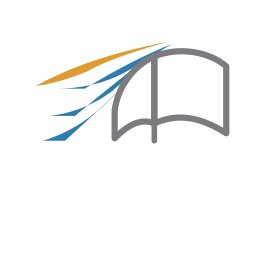
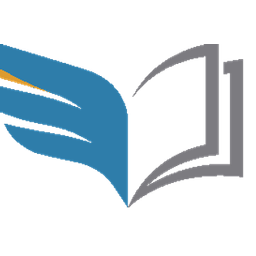
fix(brand): use official Option A lockup PNGs and migrate settings
Replace approximate SVG marks with transparent logos cropped from the
guidelines, migrate persisted SVG branding paths to PNG, enlarge the
header lockup, and apply Horizon Blue / Sun Gold CSS vars at runtime.

Changed region(s): [[0.0, 0.1562, 0.9688, 0.8125]]

diff --git a/components/brand/brand-logo.tsx b/components/brand/brand-logo.tsx
@@ -6,6 +6,7 @@ import { siteStatic } from "@/config/site-static";
 import { cn } from "@/lib/utils";
 import { routes } from "@/constants/routes";
 import { safeHref } from "@/lib/links/safe-href";
+import { useBrand } from "@/providers/brand-provider";
 
 interface BrandLogoProps {
   className?: string;
@@ -17,9 +18,8 @@ interface BrandLogoProps {
 }
 
 /**
- * Static brand mark — no BrandProvider/useBrand on the critical layout path.
- * Runtime brand API still powers other surfaces via BrandProvider.
- * Lockups follow official guidelines: horizontal (full/dark) and stacked.
+ * Option A lockup (Horizon Blue & Sun Gold).
+ * Prefers runtime branding settings when available; falls back to siteStatic PNGs.
  */
 function BrandLogo({
   className,
@@ -28,15 +28,17 @@ function BrandLogo({
   priority = false,
   showWordmark = false,
 }: BrandLogoProps) {
-  const name = siteStatic.name;
+  const brand = useBrand();
+  const name = brand.platformName || siteStatic.name;
+
   const src =
     variant === "mark"
       ? siteStatic.brand.icon
       : variant === "dark"
-        ? siteStatic.brand.logoDark
+        ? brand.darkLogoUrl || siteStatic.brand.logoDark
         : variant === "stacked"
           ? siteStatic.brand.logoStacked
-          : siteStatic.brand.logo;
+          : brand.logoUrl || siteStatic.brand.logo;
 
   // Explicit null/"" = mark only. Omitted/`undefined` defaults to home silently
   // (JS default params do NOT apply when the caller passes `href={undefined}`).
@@ -54,14 +56,14 @@ function BrandLogo({
       <img
         src={src}
         alt={name}
-        width={variant === "mark" ? 40 : variant === "stacked" ? 140 : 240}
-        height={variant === "mark" ? 40 : variant === "stacked" ? 130 : 52}
+        width={variant === "mark" ? 44 : variant === "stacked" ? 160 : 280}
+        height={variant === "mark" ? 44 : variant === "stacked" ? 150 : 56}
         className={cn(
-          "h-10 w-auto object-contain",
-          variant === "mark" && "h-10 w-10",
-          variant === "full" && "h-9 w-auto max-w-[240px] sm:h-10",
-          variant === "dark" && "h-9 w-auto max-w-[240px] sm:h-10",
-          variant === "stacked" && "h-24 w-auto max-w-[160px]",
+          "h-11 w-auto object-contain object-left",
+          variant === "mark" && "h-11 w-11",
+          variant === "full" && "h-10 w-auto max-w-[280px] sm:h-11",
+          variant === "dark" && "h-10 w-auto max-w-[280px] sm:h-11",
+          variant === "stacked" && "h-28 w-auto max-w-[180px]",
         )}
         decoding="async"
         loading={priority ? "eager" : "lazy"}
@@ -69,7 +71,7 @@ function BrandLogo({
       />
       {showWordmark && variant === "mark" ? (
         <span className="font-display text-lg font-semibold tracking-tight text-primary">
-          {name}
+          <span className="text-primary">AVIATOR</span> <span className="text-accent">PASS</span>
         </span>
       ) : null}
     </span>

diff --git a/services/settings/store.ts b/services/settings/store.ts
@@ -52,12 +52,51 @@ function emptyDb(): SettingsDatabase {
   };
 }
 
+/** Upgrade persisted brand asset paths from legacy SVG masters to Option A PNGs. */
+function migrateBrandingAssets(settings: PlatformSettings): PlatformSettings {
+  const branding = { ...settings.branding };
+  const target = {
+    logoUrl: DEFAULT_PLATFORM_SETTINGS.branding.logoUrl,
+    darkLogoUrl: DEFAULT_PLATFORM_SETTINGS.branding.darkLogoUrl,
+    openGraphImageUrl: DEFAULT_PLATFORM_SETTINGS.branding.openGraphImageUrl,
+  };
+  let changed = false;
+  for (const key of Object.keys(target) as (keyof typeof target)[]) {
+    const current = branding[key];
+    if (
+      !current ||
+      current.endsWith(".svg") ||
+      current === "/brand/logo.png" ||
+      current === "/brand/logo-dark.png" ||
+      current === "/brand/og.png"
+    ) {
+      branding[key] = target[key];
+      changed = true;
+    }
+  }
+  if (!branding.primaryColor || branding.primaryColor.toUpperCase() === "#0B1F33") {
+    branding.primaryColor = DEFAULT_PLATFORM_SETTINGS.branding.primaryColor;
+    changed = true;
+  }
+  if (!branding.accentColor) {
+    branding.accentColor = DEFAULT_PLATFORM_SETTINGS.branding.accentColor;
+    changed = true;
+  }
+  if (!branding.secondaryColor) {
+    branding.secondaryColor = DEFAULT_PLATFORM_SETTINGS.branding.secondaryColor;
+    changed = true;
+  }
+  return changed ? { ...settings, branding } : settings;
+}
+
 function ensureStore(): SettingsDatabase {
   const raw = readJsonFile<Partial<SettingsDatabase>>(DATA_FILE, emptyDb);
-  const settings = deepMerge(
-    DEFAULT_PLATFORM_SETTINGS as unknown as Record<string, unknown>,
-    (raw.settings ?? emptyDb().settings) as unknown as Record<string, unknown>,
-  ) as unknown as PlatformSettings;
+  const settings = migrateBrandingAssets(
+    deepMerge(
+      DEFAULT_PLATFORM_SETTINGS as unknown as Record<string, unknown>,
+      (raw.settings ?? emptyDb().settings) as unknown as Record<string, unknown>,
+    ) as unknown as PlatformSettings,
+  );
   return {
     settings,
     history: raw.history ?? [],

diff --git a/providers/brand-provider.tsx b/providers/brand-provider.tsx
@@ -45,8 +45,22 @@ const FALLBACK: RuntimeBrand = {
 
 const BrandContext = React.createContext<RuntimeBrand>(FALLBACK);
 
+function applyBrandCssVars(brand: RuntimeBrand) {
+  if (typeof document === "undefined") return;
+  const root = document.documentElement;
+  root.style.setProperty("--horizon-blue", brand.primaryColor);
+  root.style.setProperty("--sun-gold", brand.accentColor);
+  root.style.setProperty("--primary", brand.primaryColor);
+  root.style.setProperty("--accent", brand.accentColor);
+  root.style.setProperty("--ring", brand.primaryColor);
+}
+
 export function BrandProvider({ children }: { children: React.ReactNode }) {
   const [brand, setBrand] = React.useState<RuntimeBrand>(FALLBACK);
+
+  React.useEffect(() => {
+    applyBrandCssVars(FALLBACK);
+  }, []);
 
   React.useEffect(() => {
     let cancelled = false;
@@ -59,14 +73,18 @@ export function BrandProvider({ children }: { children: React.ReactNode }) {
         .then((json: { success?: boolean; data?: Partial<RuntimeBrand> }) => {
           if (cancelled || !json.success || !json.data) return;
           const next = { ...FALLBACK, ...json.data };
-          setBrand({
+          const resolved: RuntimeBrand = {
             ...next,
             platformName: next.platformName || FALLBACK.platformName,
             logoUrl: next.logoUrl || FALLBACK.logoUrl,
             darkLogoUrl: next.darkLogoUrl || FALLBACK.darkLogoUrl,
             faviconUrl: next.faviconUrl || FALLBACK.faviconUrl,
             openGraphImageUrl: next.openGraphImageUrl || FALLBACK.openGraphImageUrl,
-          });
+            primaryColor: next.primaryColor || FALLBACK.primaryColor,
+            accentColor: next.accentColor || FALLBACK.accentColor,
+          };
+          setBrand(resolved);
+          applyBrandCssVars(resolved);
         })
         .catch(() => {
           /* keep fallback */

diff --git a/config/site-static.ts b/config/site-static.ts
@@ -25,13 +25,13 @@ export const siteStatic = {
     youtube: "",
   },
   brand: {
-    /** Raster lockups (transparent PNG) — preferred in UI for consistent render */
-    logo: "/brand/logo.png",
-    logoDark: "/brand/logo-dark.png",
-    logoStacked: "/brand/logo-stacked.png",
-    icon: "/brand/icon.png",
-    favicon: "/brand/favicon.svg",
-    openGraph: "/brand/og.png",
+    /** Raster lockups from Option A guidelines — cache-busted for deploy refresh */
+    logo: "/brand/logo.png?v=option-a-2",
+    logoDark: "/brand/logo-dark.png?v=option-a-2",
+    logoStacked: "/brand/logo-stacked.png?v=option-a-2",
+    icon: "/brand/icon.png?v=option-a-2",
+    favicon: "/brand/favicon.svg?v=option-a-2",
+    openGraph: "/brand/og.png?v=option-a-2",
     /** Vector masters kept for edit / favicon / print */
     logoSvg: "/brand/logo.svg",
     logoDarkSvg: "/brand/logo-dark.svg",

diff --git a/services/settings/defaults.ts b/services/settings/defaults.ts
@@ -33,12 +33,12 @@ export const DEFAULT_PLATFORM_SETTINGS: PlatformSettings = {
     },
   },
   branding: {
-    logoUrl: "/brand/logo.png",
-    darkLogoUrl: "/brand/logo-dark.png",
-    faviconUrl: "/brand/favicon.svg",
+    logoUrl: "/brand/logo.png?v=option-a-2",
+    darkLogoUrl: "/brand/logo-dark.png?v=option-a-2",
+    faviconUrl: "/brand/favicon.svg?v=option-a-2",
     loginBackgroundUrl: "/images/hero-aviation.svg",
     loginIllustrationUrl: "/images/hero-aviation.svg",
-    openGraphImageUrl: "/brand/og.png",
+    openGraphImageUrl: "/brand/og.png?v=option-a-2",
     primaryColor: "#2E7DAA",
     secondaryColor: "#7C7B80",
     accentColor: "#DD9B30",

diff --git a/components/layout/header.tsx b/components/layout/header.tsx
@@ -57,7 +57,7 @@ function Header() {
             variant="dark"
             href={routes.home}
             priority
-            className="[&_img]:h-9 [&_img]:max-w-[220px] sm:[&_img]:h-10"
+            className="[&_img]:h-11 [&_img]:max-w-[280px] sm:[&_img]:h-12"
           />
         </div>
 
